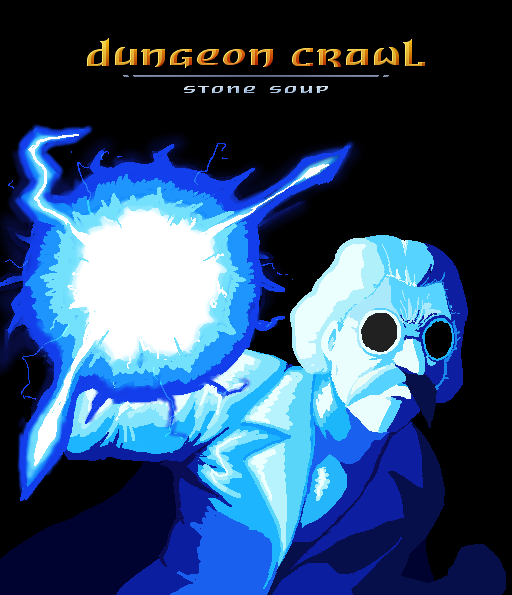
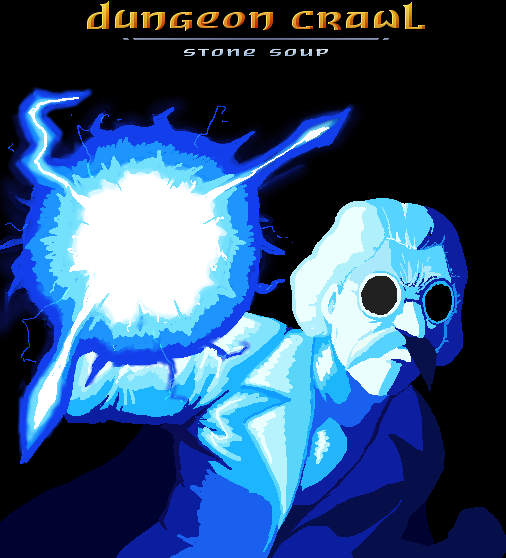
Improve loading splash screen UI
Uses the new UI framework, as usual. Now handles resizes correctly,
and renders the splash screen with filtering enabled.

Todo: separate the DCSS logo from the splash image, so that it can be
rendered independently of the scaled splash image.

Visual design could do with some polish; some of the splash screens
have hard edges that look a little out of place, for example.

(cherry picked from commit cf2c24169fb2f7ed5650a1c7e88946887b07dd62)

diff --git a/crawl-ref/source/loading-screen.cc b/crawl-ref/source/loading-screen.cc
@@ -1,0 +1,99 @@
+#ifdef USE_TILE_LOCAL
+
+#include "AppHdr.h"
+#include "loading-screen.h"
+#include "files.h"
+#include "options.h"
+#include "random.h"
+#include "state.h"
+#include "ui.h"
+
+using namespace ui;
+
+class UIShrinkableImage : public Widget
+{
+public:
+    UIShrinkableImage(string img_path) : m_buf(true, false) {
+        m_img.load_texture(img_path.c_str(), MIPMAP_CREATE);
+        m_buf.set_tex(&m_img);
+    };
+    virtual void _render() override;
+    virtual SizeReq _get_preferred_size(Direction dim, int prosp_width) override;
+    virtual void _allocate_region() override;
+protected:
+    float scale;
+    GenericTexture m_img;
+    VertBuffer m_buf;
+};
+
+void UIShrinkableImage::_render()
+{
+    int iw = m_img.orig_width()*scale, ih = m_img.orig_height()*scale;
+    int dx = (m_region[2]-iw)/2, dy = (m_region[3]-ih)/2;
+    int x = m_region[0] + dx, y = m_region[1] + dy;
+    GLWPrim rect(x, y, x+iw, y+ih);
+    rect.set_tex(0, 0, (float)m_img.orig_width()/m_img.width(),
+            (float)m_img.orig_height()/m_img.height());
+    m_buf.clear();
+    m_buf.add_primitive(rect);
+    m_buf.draw();
+}
+
+SizeReq UIShrinkableImage::_get_preferred_size(Direction dim, int prosp_width)
+{
+    return { 0, (int)(!dim ? m_img.orig_width() : m_img.orig_height()) };
+}
+
+void UIShrinkableImage::_allocate_region()
+{
+    float iw = m_img.orig_width(), ih = m_img.orig_height();
+    scale = min({1.0f, m_region[2]/iw, m_region[3]/ih});
+}
+
+static shared_ptr<Text> loading_text;
+static shared_ptr<ui::Popup> popup;
+static string load_complete_msg = "Loading complete, press any key to start.";
+
+static const string _get_title_image()
+{
+    vector<string> files = get_title_files();
+    return files[random2(files.size())];
+}
+
+void loading_screen_open()
+{
+    auto splash = make_shared<UIShrinkableImage>(_get_title_image());
+    loading_text = make_shared<Text>();
+    loading_text->set_margin_for_sdl({15, 0, 0, 0});
+    auto vbox = make_shared<Box>(Widget::VERT);
+    vbox->align_items = Widget::CENTER;
+    vbox->add_child(move(splash));
+    vbox->add_child(loading_text);
+    FontWrapper *font = tiles.get_crt_font();
+    vbox->min_size()[0] = font->string_width(load_complete_msg.c_str());
+    popup = make_shared<ui::Popup>(move(vbox));
+    ui::push_layout(popup);
+}
+
+void loading_screen_close()
+{
+    bool done = Options.tile_skip_title;
+    popup->on(Widget::slots.event, [&](wm_event ev)  {
+        return done = ev.type == WME_KEYDOWN;
+    });
+    if (!done)
+        loading_screen_update_msg(load_complete_msg);
+    while (!done && !crawl_state.seen_hups)
+        ui::pump_events();
+    ui::pop_layout();
+    loading_text = nullptr;
+    popup = nullptr;
+}
+
+void loading_screen_update_msg(string message)
+{
+    loading_text->set_text(formatted_string(message));
+    ui::pump_events(0);
+}
+
+#endif

diff --git a/crawl-ref/source/tilesdl.cc b/crawl-ref/source/tilesdl.cc
@@ -41,7 +41,6 @@
 #include "tilereg-stat.h"
 #include "tilereg-tab.h"
 #include "tilereg-text.h"
-#include "tilereg-title.h"
 #include "tileview.h"
 #include "travel.h"
 #include "ui.h"
@@ -276,61 +275,6 @@ void TilesFramework::shutdown()
     WindowManager::shutdown();
 
     _shutdown_console();
-}
-
-/**
- * Creates a new title region and sets it active
- * Remember to call hide_title() when you're done
- * showing the title.
- */
-void TilesFramework::draw_title()
-{
-    TitleRegion* reg = new TitleRegion(m_windowsz.x, m_windowsz.y,
-                                       m_fonts[m_msg_font].font);
-
-    m_layers[LAYER_TILE_CONTROL].m_regions.push_back(reg);
-    m_active_layer = LAYER_TILE_CONTROL;
-    redraw();
-}
-
-/**
- * Updates the loading message text on the title
- * screen
- * Assumes that we only have one region on the layer
- * If at some point it's possible to have multiple regions
- * open while the title screen shows, the .at(0) will need
- * to be changed and saved on a variable somewhere instead
- */
-void TilesFramework::update_title_msg(string message)
-{
-    ASSERT(m_layers[LAYER_TILE_CONTROL].m_regions.size() == 1);
-    ASSERT(m_active_layer == LAYER_TILE_CONTROL);
-    TitleRegion* reg = dynamic_cast<TitleRegion*>(
-            m_layers[LAYER_TILE_CONTROL].m_regions.at(0));
-    reg->update_message(message);
-    redraw();
-}
-
-/**
- * Deletes the dynamically reserved Titlescreen memory
- * at end. Runs reg->run to get one key input from the user
- * so that the title screen stays ope until any input is given.
- * Assumes that we only have one region on the layer
- * If at some point it's possible to have multiple regions
- * open while the title screen shows, the .at(0) will need
- * to be changed and saved on a variable somewhere instead
- */
-void TilesFramework::hide_title()
-{
-    ASSERT(m_layers[LAYER_TILE_CONTROL].m_regions.size() == 1);
-    ASSERT(m_active_layer == LAYER_TILE_CONTROL);
-    TitleRegion* reg = dynamic_cast<TitleRegion*>(
-            m_layers[LAYER_TILE_CONTROL].m_regions.at(0));
-    redraw();
-    if (!Options.tile_skip_title)
-        reg->run();
-    delete reg;
-    m_layers[LAYER_TILE_CONTROL].m_regions.clear();
 }
 
 void TilesFramework::draw_doll_edit()

diff --git a/crawl-ref/source/startup.cc b/crawl-ref/source/startup.cc
@@ -29,6 +29,7 @@
 #include "item-prop.h"
 #include "items.h"
 #include "libutil.h"
+#include "loading-screen.h"
 #include "macro.h"
 #include "maps.h"
 #include "menu.h"
@@ -118,8 +119,8 @@ static void _initialize()
     // screen while this happens.
     if (!crawl_state.tiles_disabled && crawl_state.title_screen)
     {
-        tiles.draw_title();
-        tiles.update_title_msg("Loading databases...");
+        loading_screen_open();
+        loading_screen_update_msg("Loading databases...");
     }
 #endif
 
@@ -127,7 +128,7 @@ static void _initialize()
     databaseSystemInit();
 #ifdef USE_TILE_LOCAL
     if (!crawl_state.tiles_disabled && crawl_state.title_screen)
-        tiles.update_title_msg("Loading spells and features...");
+        loading_screen_update_msg("Loading spells and features...");
 #endif
 
     init_feat_desc_cache();
@@ -135,7 +136,7 @@ static void _initialize()
     init_spell_rarities();
 #ifdef USE_TILE_LOCAL
     if (!crawl_state.tiles_disabled && crawl_state.title_screen)
-        tiles.update_title_msg("Loading maps...");
+        loading_screen_update_msg("Loading maps...");
 #endif
 
     // Read special levels and vaults.
@@ -146,13 +147,8 @@ static void _initialize()
         end(0);
 
 #ifdef USE_TILE_LOCAL
-    if (!crawl_state.tiles_disabled
-        && crawl_state.title_screen)
-    {
-        if (!Options.tile_skip_title)
-            tiles.update_title_msg("Loading complete, press any key to start.");
-        tiles.hide_title();
-    }
+    if (!crawl_state.tiles_disabled && crawl_state.title_screen)
+        loading_screen_close();
 #endif
 
     if (Options.seed)

diff --git a/crawl-ref/source/tilesdl.h b/crawl-ref/source/tilesdl.h
@@ -38,7 +38,6 @@ class ActorRegion;
 class TabbedRegion;
 class MapRegion;
 class ControlRegion;
-class TitleRegion;
 class DollEditRegion;
 class StatRegion;
 class MessageRegion;
@@ -138,10 +137,6 @@ public:
 
     void add_overlay(const coord_def &gc, tileidx_t idx);
     void clear_overlays();
-
-    void draw_title();
-    void update_title_msg(string load_msg);
-    void hide_title();
 
     void draw_doll_edit();
 

diff --git a/crawl-ref/source/loading-screen.h b/crawl-ref/source/loading-screen.h
@@ -1,0 +1,16 @@
+/**
+ * @file
+ * @brief Loading splash screen UI layout.
+**/
+
+#pragma once
+
+#ifdef USE_TILE_LOCAL
+
+#include <string>
+
+void loading_screen_open();
+void loading_screen_close();
+void loading_screen_update_msg(string message);
+
+#endif
